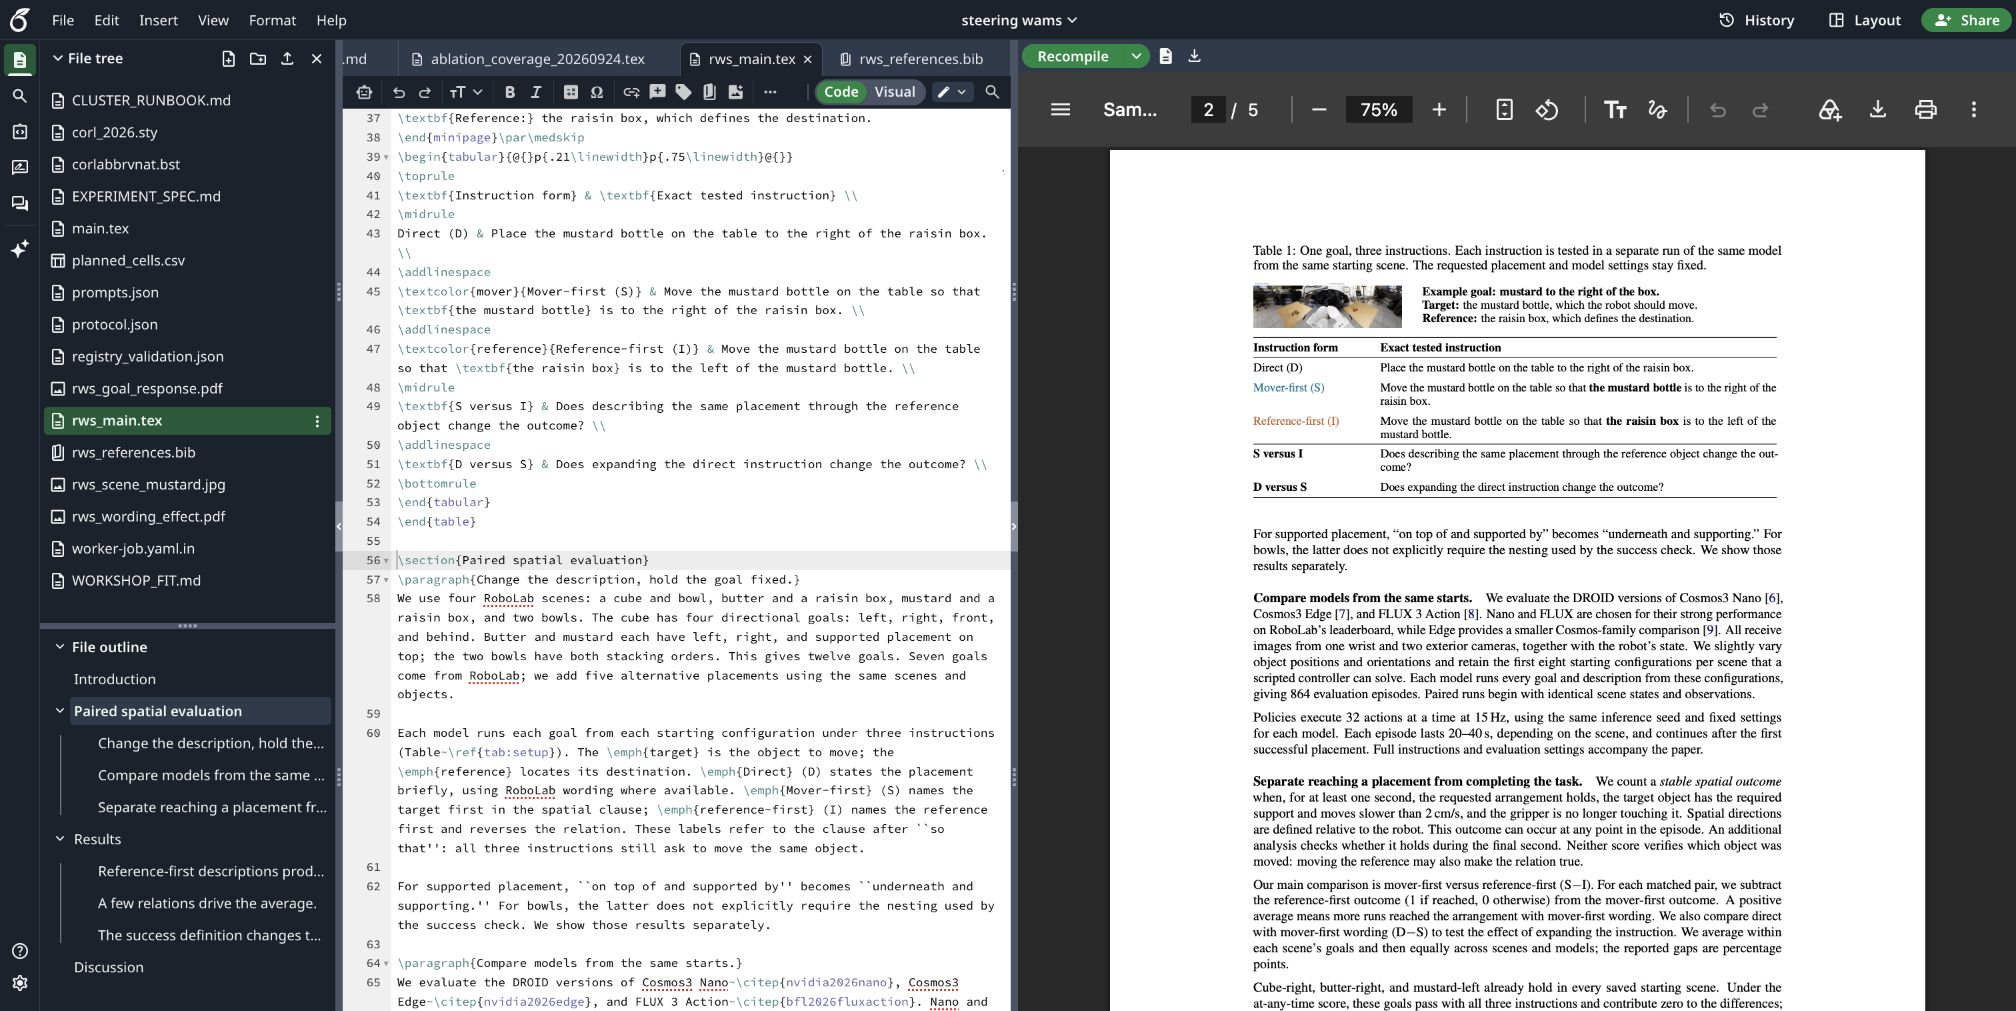
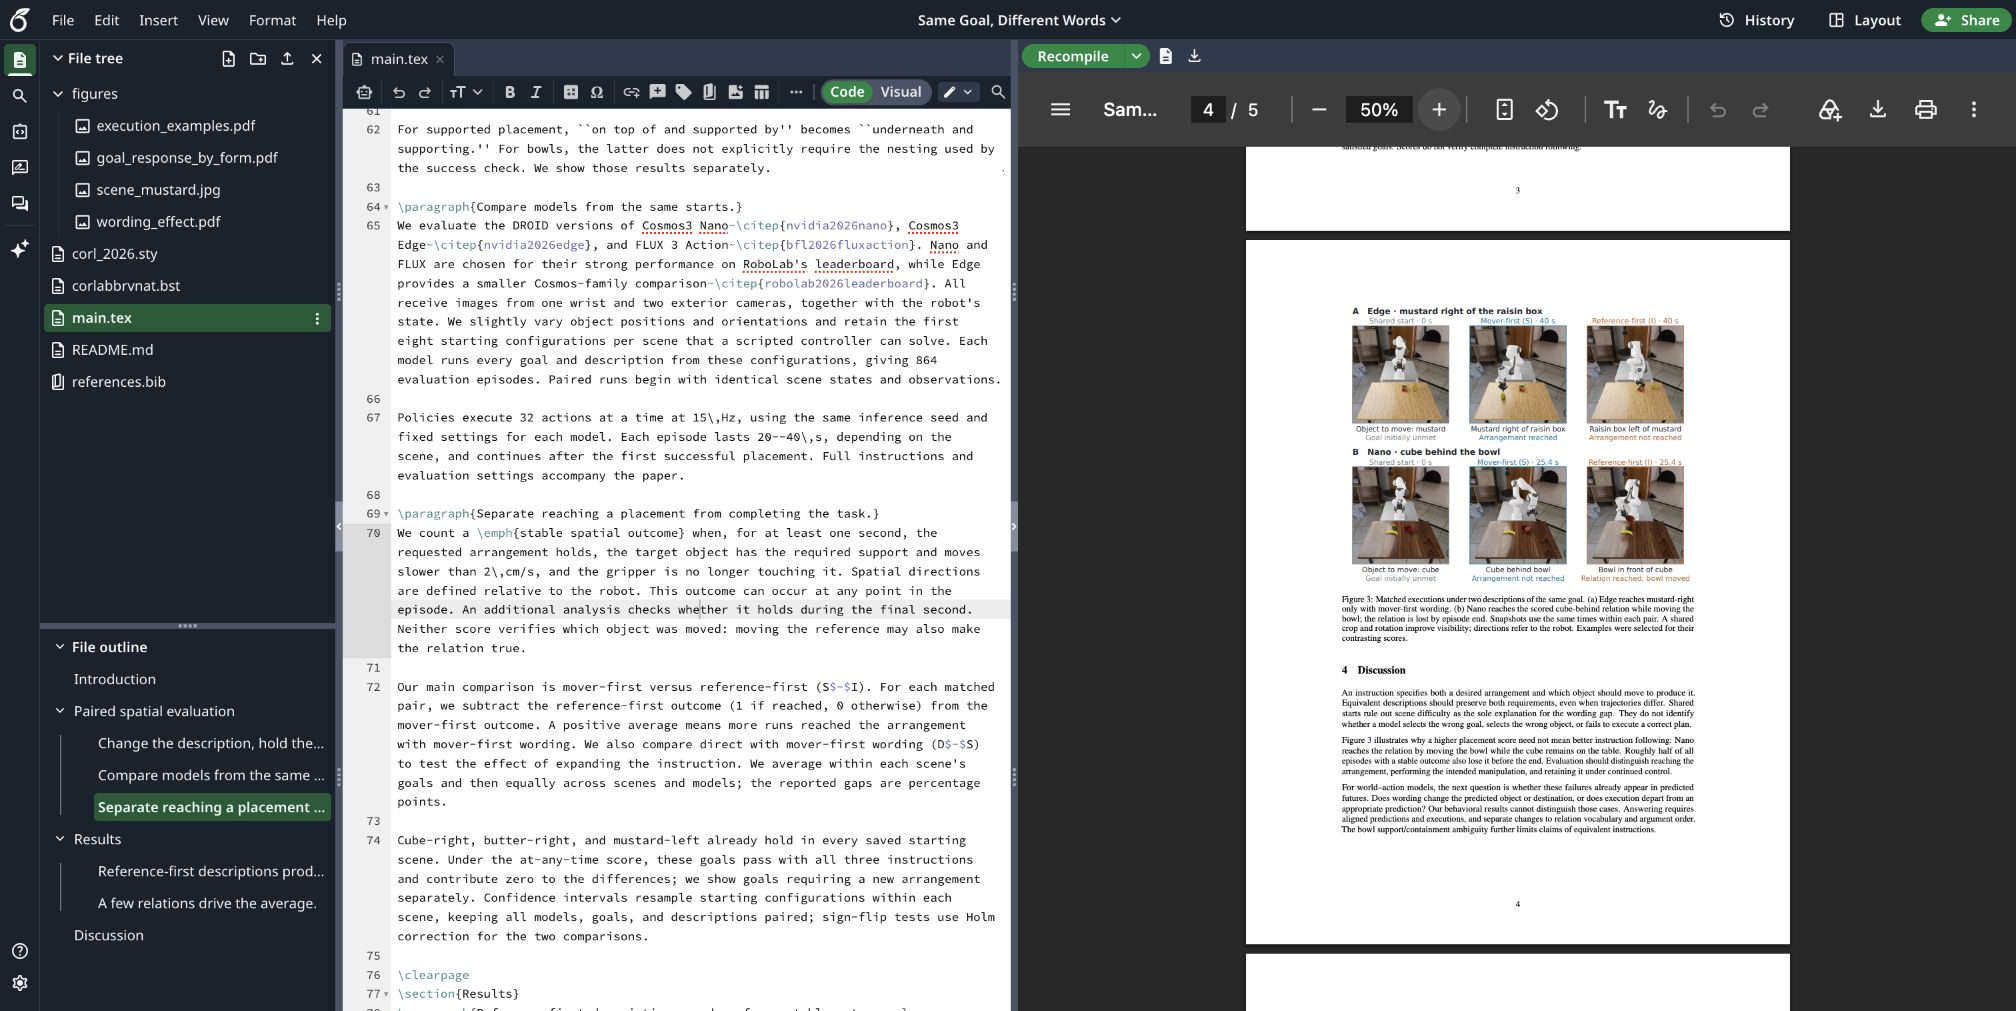
Verify completed Overleaf sync with montage and four-page main text

diff --git a/paper/robolab_spatial_2026/README.md b/paper/robolab_spatial_2026/README.md
@@ -48,7 +48,7 @@ The exact declared official model revisions were verified. The compact FLUX runt
 - Independent factual/editorial review of counts, native/added-goal scope, intervention semantics, and claims.
 - Local LaTeX build: four pages of main text plus references; no unresolved references or overfull boxes.
 - All five rendered pages inspected; scientific figures are vector PDFs.
-- Current local PDF and the extracted nine-file coauthor ZIP: four main-text pages and one reference page, with the montage. The cleaned live Overleaf project still has the previous manuscript without the montage: a renewed upload attempt was rejected by browser approval despite the author approving synchronization in chat. It recompiles with zero errors and warnings and displays five pages. `QA.json` separates these states; `output/pdf/overleaf_cleaned.png` records the cleaned live project.
+- Current local PDF, extracted nine-file coauthor ZIP, and live Overleaf project: four main-text pages and one reference page, with the montage on page 4. The latest source and all four figures have been uploaded. Overleaf compiles with zero errors and warnings under TeX Live 2026; its compiler log and rendered preview confirm the layout. `output/pdf/overleaf_draft.png` records the synced project. Browser PDF download timed out, so this verification does not claim a new downloaded-PDF text comparison.
 - Old Overleaf source downloaded as a local backup before adding this draft. No experiment jobs or paper submissions launched.
 
 The current PDF is ready for author review. The execution montage now uses the two previously specified pairs. Full-length browser video derivatives remain optional and have not been produced by this paper-figure revision.
@@ -67,6 +67,6 @@ The numerical figures are grouped in Results; page 4 presents two actual matched
 
 ## Coauthor project cleanup — September 27
 
-The live project is named **Same Goal, Different Words** and contains seven existing manuscript files. Sixteen obsolete files (the old experiment manuscript, scene images, agent instructions, protocols, and cluster configuration) were removed from the working tree after preserving the full original project as [Archive — steering wams before cleanup — 2026-09-27](https://www.overleaf.com/project/6ab923cb15e3037e3feebc32). The current source was renamed from `rws_main.tex` to `main.tex`. Sharing permissions were not changed.
+The live project is named **Same Goal, Different Words** and contains nine files: `main.tex`, `references.bib`, `README.md`, the two CoRL template files, and four graphics under `figures/`. Sixteen obsolete files (the old experiment manuscript, scene images, agent instructions, protocols, and cluster configuration) were removed after preserving the full original project as [Archive — steering wams before cleanup — 2026-09-27](https://www.overleaf.com/project/6ab923cb15e3037e3feebc32). Four superseded `rws_*` assets were removed after the current source and figures compiled successfully. Sharing permissions were not changed.
 
-The latest nine-file package is `output/pdf/same_goal_different_words_overleaf.zip`. Its manuscript is byte-identical to the canonical source; an extracted build has identical normalized text on all five pages. The upload was blocked twice, most recently after explicit renewed approval in chat. To finish synchronization manually, extract the ZIP and upload its contents to the existing project, replacing `main.tex` and the template files. Select `main.tex` as the main document. After successful compilation, remove the four unused `rws_*` assets. Keep the montage, README, bibliography, and all four files in `figures/`.
+The latest nine-file package is `output/pdf/same_goal_different_words_overleaf.zip`. Its manuscript is byte-identical to the canonical source; an extracted local build has identical normalized text on all five pages. Earlier upload attempts were blocked, but the author's renewed request was completed after Overleaf reconnected. The source, bibliography, README, template files, and four graphics were uploaded individually; the temporary ZIP stored in the live project was removed. The live preview confirms the montage and discussion on page 4, with references beginning on page 5. No manual synchronization remains.
